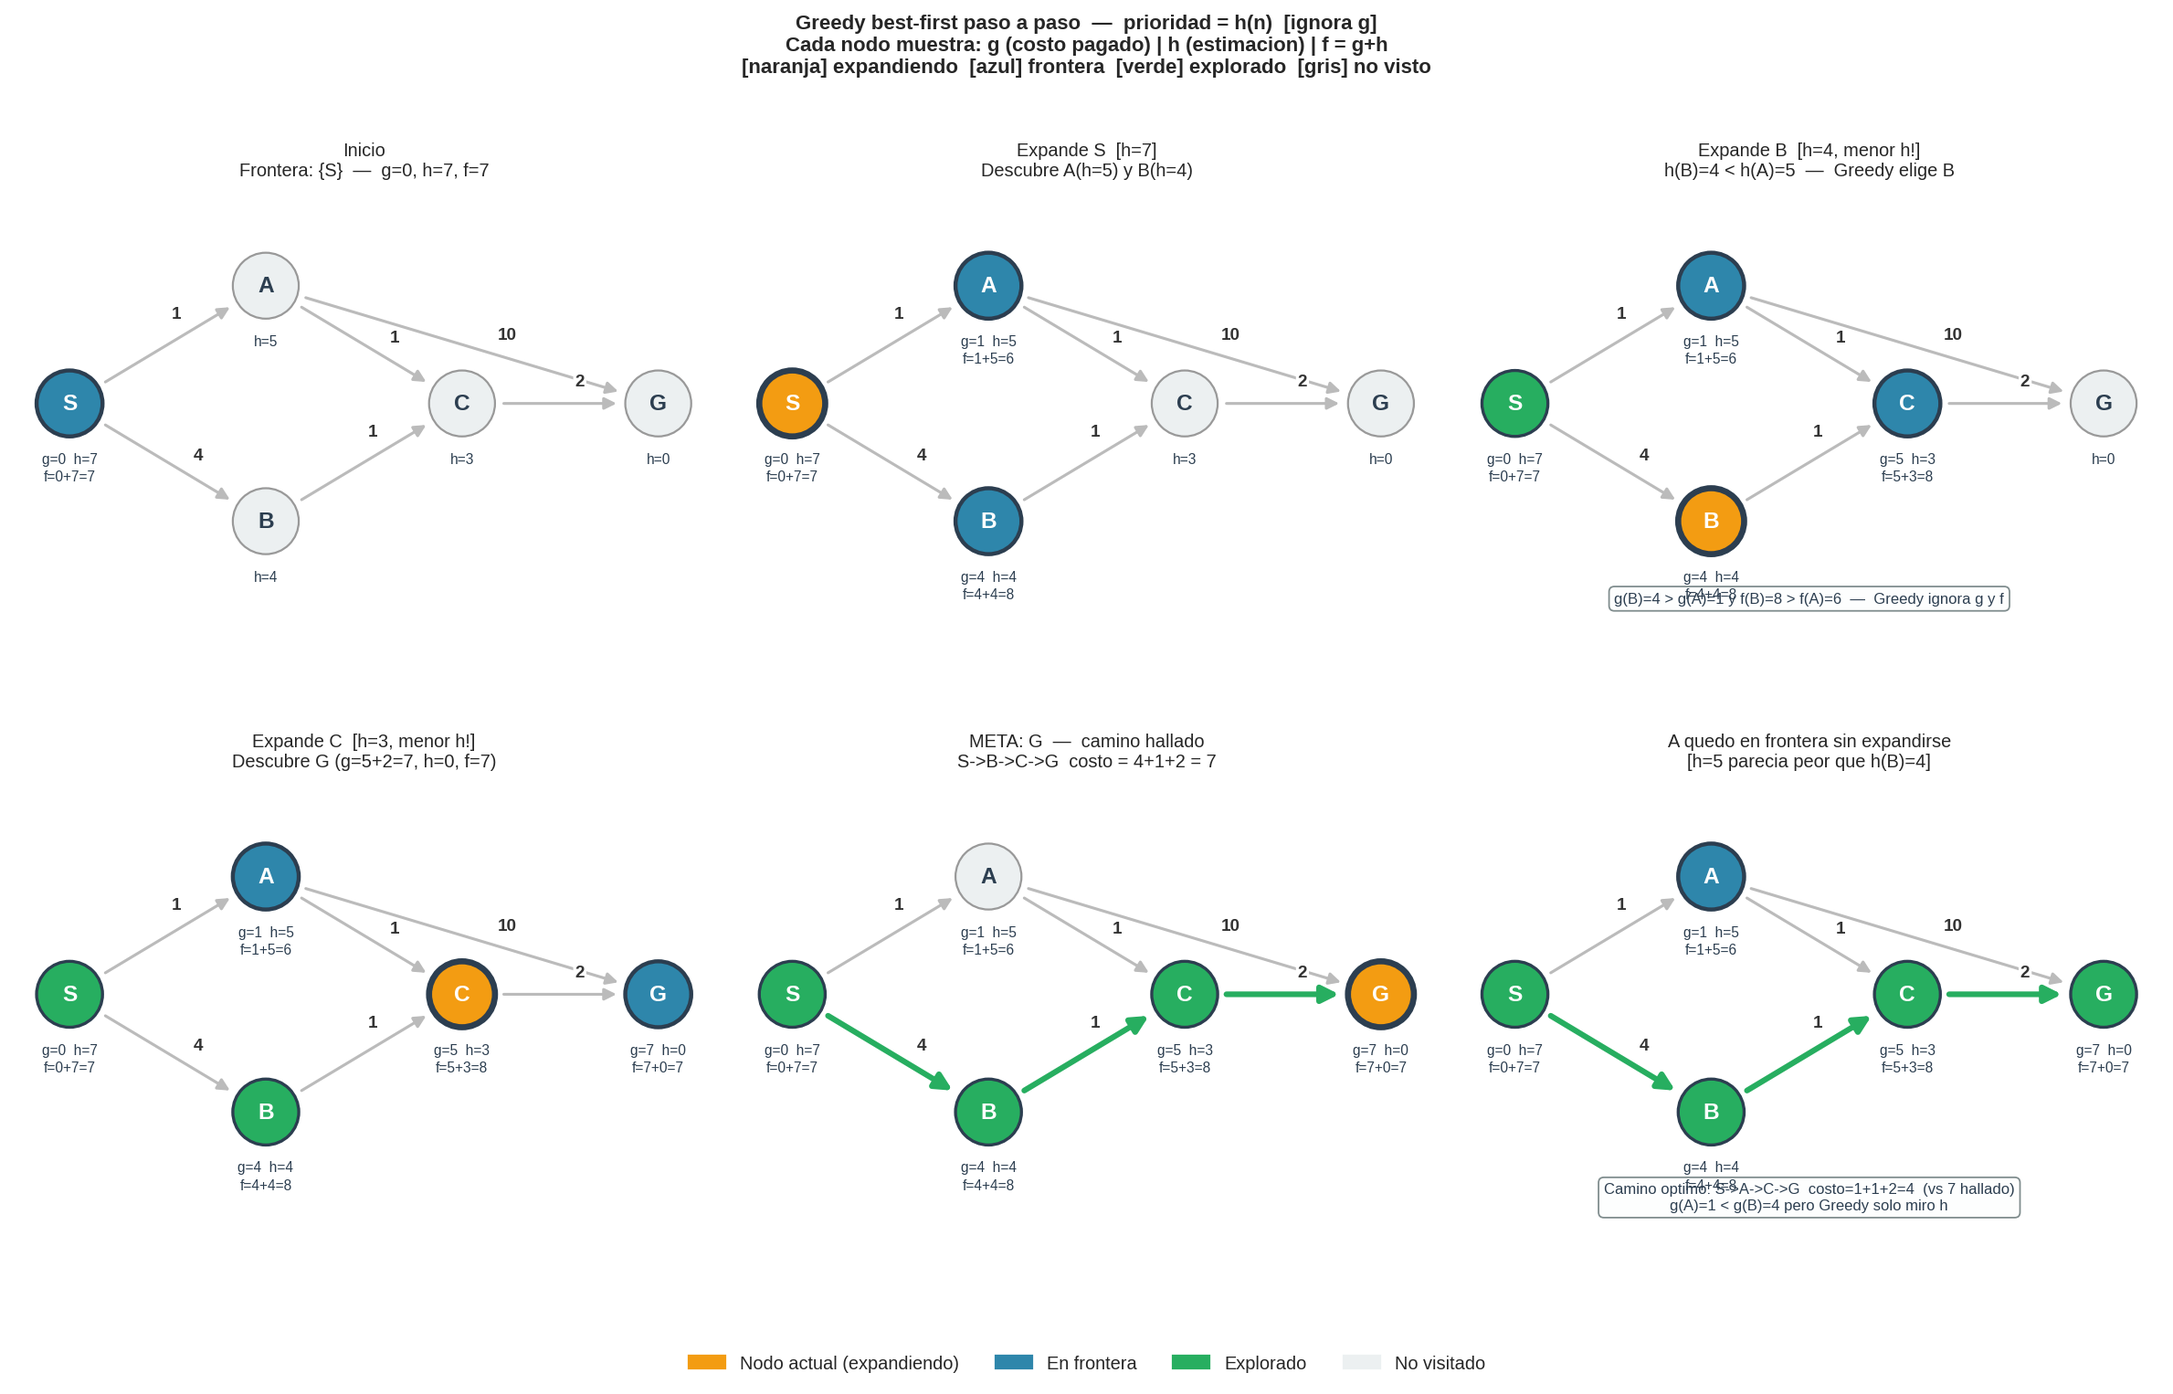
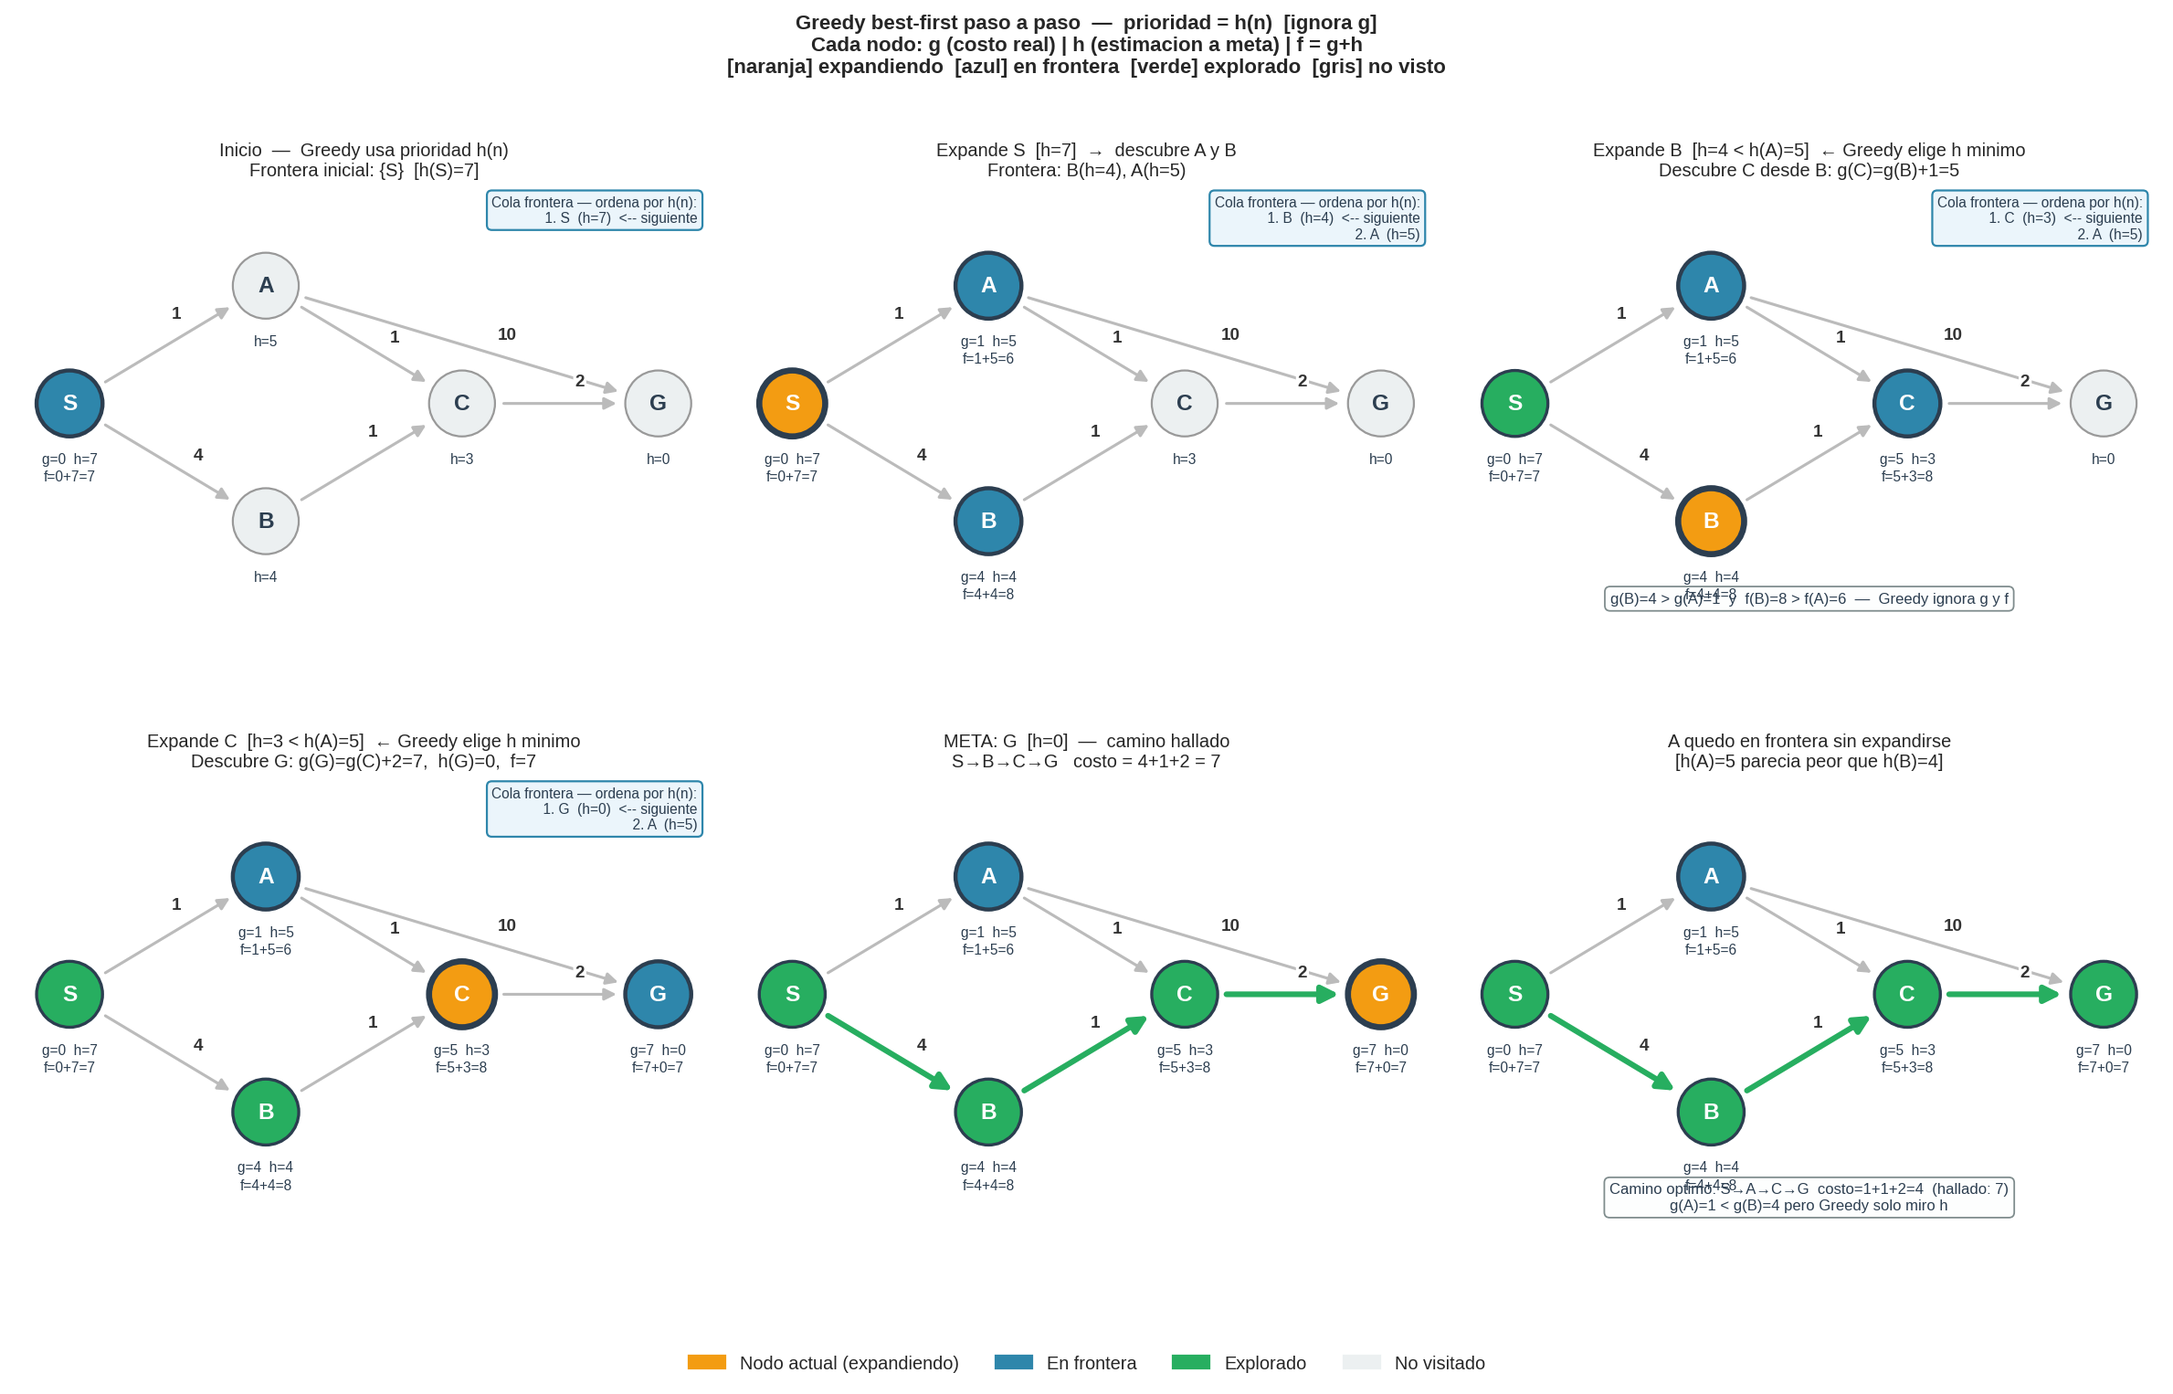
fixed graphs

diff --git a/clase/14_busqueda_informada/lab_informed_search.py b/clase/14_busqueda_informada/lab_informed_search.py
@@ -1125,13 +1125,19 @@ _TOY_H = {'S': 7, 'A': 5, 'B': 4, 'C': 3, 'G': 0}
 
 
 def _draw_toy_step(ax, current, frontier_nodes, explored_nodes,
-                   node_g, title, solution_path=None, note=None):
+                   node_g, title, solution_path=None, note=None,
+                   frontier_queue=None, priority_mode='f'):
     """Draw one step of a search algorithm on the shared toy graph.
 
     node_g: dict {node: g_value} for nodes with a known g cost.
             Nodes absent from this dict are shown with h(n) only.
     Labels always show g, h, AND f for every discovered node so all
     three algorithms can be compared directly on the same values.
+
+    frontier_queue: list of (priority_value, node_name) sorted ascending
+                    (lowest priority first = next to be expanded).
+                    Displayed as a priority queue box in upper-right corner.
+    priority_mode: 'h' | 'g' | 'f'  — which value drives selection.
     """
     pos = _TOY_POS
     R = 0.42
@@ -1194,6 +1200,22 @@ def _draw_toy_step(ax, current, frontier_nodes, explored_nodes,
             ax.text(x, y - 0.62, lbl, ha='center', va='top', fontsize=7.0,
                     color=COLORS["dark"], zorder=4, linespacing=1.35)
 
+    # --- Frontier priority queue box (upper-right corner) ---
+    # Shows the sorted frontier so students see WHY the next node is chosen.
+    if frontier_queue:
+        mode_labels = {'h': 'h(n)', 'g': 'g(n)', 'f': 'f(n)'}
+        mode_str = mode_labels.get(priority_mode, priority_mode)
+        lines = [f"Cola frontera — ordena por {mode_str}:"]
+        for i, (pri, node) in enumerate(frontier_queue):
+            arrow = "  <-- siguiente" if i == 0 else ""
+            lines.append(f"  {i + 1}. {node}  ({priority_mode}={pri}){arrow}")
+        fq_text = "\n".join(lines)
+        ax.text(8.0, 4.65, fq_text, ha='right', va='top', fontsize=7.0,
+                color=COLORS["dark"], zorder=5,
+                bbox=dict(fc='#EBF5FB', ec=COLORS["blue"],
+                          boxstyle='round,pad=0.35', lw=1.0))
+
+    # --- Note box (bottom center) ---
     if note:
         ax.text(3.75, -0.40, note, ha='center', va='top', fontsize=7.5,
                 color=COLORS["dark"],
@@ -1212,59 +1234,70 @@ def plot_greedy_step_by_step() -> None:
     Shows g, h, and f at every node — even though Greedy only uses h.
     The key visual: at step 2 Greedy picks B (h=4) over A (h=5),
     but g(B)=4 > g(A)=1 and f(B)=8 > f(A)=6.  Greedy ignores g.
+
+    Greedy path: S->B->C->G  cost=7  (suboptimal)
+    Optimal:     S->A->C->G  cost=4
+    A is discovered (g=1) but never expanded — Greedy chose B first.
     """
-    # g values along Greedy's chosen path:
-    #   Greedy discovers A and B from S (g via S→A=1, S→B=4)
-    #   Then picks B (h=4), discovers C from B (g via B→C = 5)
-    #   Then picks C (h=3), discovers G from C (g via B→C→G = 7)
-    #   A is discovered (g=1) but never expanded
+    # Each step: (current, frontier_set, explored_set, node_g,
+    #             title, solution_path, note, frontier_queue)
+    # frontier_queue: [(h_value, node), ...] sorted ascending = next to expand first
+    # BUG FIX: panel 5 — when G is popped as goal, A is still in frontier
     steps = [
-        # (current, frontier_set, explored_set, node_g, title, solution_path, note)
         (None,
          {'S'}, set(),
          {'S': 0},
-         "Inicio\nFrontera: {S}  —  g=0, h=7, f=7",
-         None, None),
+         "Inicio  —  Greedy usa prioridad h(n)\nFrontera inicial: {S}  [h(S)=7]",
+         None, None,
+         [(7, 'S')]),
 
         ('S',
          {'A', 'B'}, {'S'},
          {'S': 0, 'A': 1, 'B': 4},
-         "Expande S  [h=7]\nDescubre A(h=5) y B(h=4)",
-         None, None),
+         "Expande S  [h=7]  \u2192  descubre A y B\nFrontera: B(h=4), A(h=5)",
+         None, None,
+         [(4, 'B'), (5, 'A')]),
 
         ('B',
          {'A', 'C'}, {'S', 'B'},
          {'S': 0, 'A': 1, 'B': 4, 'C': 5},
-         "Expande B  [h=4, menor h!]\nh(B)=4 < h(A)=5  —  Greedy elige B",
+         "Expande B  [h=4 < h(A)=5]  \u2190 Greedy elige h minimo\n"
+         "Descubre C desde B: g(C)=g(B)+1=5",
          None,
-         "g(B)=4 > g(A)=1 y f(B)=8 > f(A)=6  —  Greedy ignora g y f"),
+         "g(B)=4 > g(A)=1  y  f(B)=8 > f(A)=6  \u2014  Greedy ignora g y f",
+         [(3, 'C'), (5, 'A')]),
 
         ('C',
          {'A', 'G'}, {'S', 'B', 'C'},
          {'S': 0, 'A': 1, 'B': 4, 'C': 5, 'G': 7},
-         "Expande C  [h=3, menor h!]\nDescubre G (g=5+2=7, h=0, f=7)",
-         None, None),
+         "Expande C  [h=3 < h(A)=5]  \u2190 Greedy elige h minimo\n"
+         "Descubre G: g(G)=g(C)+2=7,  h(G)=0,  f=7",
+         None, None,
+         [(0, 'G'), (5, 'A')]),
 
+        # FIX: A is still in the frontier when G is expanded as goal
         ('G',
-         set(), {'S', 'B', 'C'},
+         {'A'}, {'S', 'B', 'C'},
          {'S': 0, 'A': 1, 'B': 4, 'C': 5, 'G': 7},
-         "META: G  —  camino hallado\nS->B->C->G  costo = 4+1+2 = 7",
-         ['S', 'B', 'C', 'G'], None),
+         "META: G  [h=0]  \u2014  camino hallado\nS\u2192B\u2192C\u2192G   costo = 4+1+2 = 7",
+         ['S', 'B', 'C', 'G'], None,
+         None),
 
         (None,
          {'A'}, {'S', 'B', 'C', 'G'},
          {'S': 0, 'A': 1, 'B': 4, 'C': 5, 'G': 7},
-         "A quedo en frontera sin expandirse\n[h=5 parecia peor que h(B)=4]",
+         "A quedo en frontera sin expandirse\n[h(A)=5 parecia peor que h(B)=4]",
          ['S', 'B', 'C', 'G'],
-         "Camino optimo: S->A->C->G  costo=1+1+2=4  (vs 7 hallado)\n"
-         "g(A)=1 < g(B)=4 pero Greedy solo miro h"),
+         "Camino optimo: S\u2192A\u2192C\u2192G  costo=1+1+2=4  (hallado: 7)\n"
+         "g(A)=1 < g(B)=4 pero Greedy solo miro h",
+         None),
     ]
 
     fig, axes = plt.subplots(2, 3, figsize=(15, 9.5))
     fig.suptitle(
-        "Greedy best-first paso a paso  —  prioridad = h(n)  [ignora g]\n"
-        "Cada nodo muestra: g (costo pagado) | h (estimacion) | f = g+h\n"
-        "[naranja] expandiendo  [azul] frontera  [verde] explorado  [gris] no visto",
+        "Greedy best-first paso a paso  \u2014  prioridad = h(n)  [ignora g]\n"
+        "Cada nodo: g (costo real) | h (estimacion a meta) | f = g+h\n"
+        "[naranja] expandiendo  [azul] en frontera  [verde] explorado  [gris] no visto",
         fontsize=10, fontweight='bold')
     axes = axes.flatten()
 
@@ -1274,8 +1307,9 @@ def plot_greedy_step_by_step() -> None:
         mpatches.Patch(color=COLORS["green"], label="Explorado"),
         mpatches.Patch(color=COLORS["light"], label="No visitado"),
     ]
-    for ax, (cur, fr, ex, ng, ttl, sp, nt) in zip(axes, steps):
-        _draw_toy_step(ax, cur, fr, ex, ng, ttl, sp, nt)
+    for ax, (cur, fr, ex, ng, ttl, sp, nt, fq) in zip(axes, steps):
+        _draw_toy_step(ax, cur, fr, ex, ng, ttl, sp, nt,
+                       frontier_queue=fq, priority_mode='h')
 
     fig.legend(handles=legend_patches, loc='lower center', ncol=4,
                fontsize=9, framealpha=0.9, bbox_to_anchor=(0.5, -0.01))
@@ -1288,53 +1322,68 @@ def plot_dijkstra_step_by_step() -> None:
     Shows g, h, and f at every node — even though Dijkstra only uses g.
     The key visual: Dijkstra correctly expands A (g=1) before B (g=4),
     but also expands B, ignoring h values entirely.
+
+    Expansion order: S, A, C, B, G
+    Optimal path: S->A->C->G  cost=4
     """
+    # Each step: (current, frontier_set, explored_set, node_g,
+    #             title, solution_path, note, frontier_queue)
+    # frontier_queue: [(g_value, node), ...] sorted ascending
     steps = [
-        # (current, frontier_set, explored_set, node_g, title, solution_path, note)
         (None,
          {'S'}, set(),
          {'S': 0},
-         "Inicio\ng(S)=0  (h y f mostrados para comparar)",
-         None, None),
+         "Inicio  \u2014  Dijkstra usa prioridad g(n)\ng(S)=0  (h y f se muestran para comparar)",
+         None, None,
+         [(0, 'S')]),
 
         ('S',
          {'A', 'B'}, {'S'},
          {'S': 0, 'A': 1, 'B': 4},
-         "Expande S  [g=0]\nRelajacion: g[A]=1,  g[B]=4",
-         None, None),
+         "Expande S  [g=0]  \u2192  relajacion: g[A]=1,  g[B]=4\nFrontera: A(g=1), B(g=4)",
+         None, None,
+         [(1, 'A'), (4, 'B')]),
 
         ('A',
          {'B', 'C', 'G'}, {'S', 'A'},
          {'S': 0, 'A': 1, 'B': 4, 'C': 2, 'G': 11},
-         "Expande A  [g=1, menor g!]\nRelajacion: g[C]=2,  g[G]=11",
-         None, None),
+         "Expande A  [g=1 < g(B)=4]  \u2190 Dijkstra elige g minimo\n"
+         "Relajacion: g[C]=1+1=2,  g[G]=1+10=11",
+         None, None,
+         [(2, 'C'), (4, 'B'), (11, 'G')]),
 
         ('C',
          {'B', 'G'}, {'S', 'A', 'C'},
          {'S': 0, 'A': 1, 'B': 4, 'C': 2, 'G': 4},
-         "Expande C  [g=2]\nRelajacion: g[G]: 11 -> 4  !",
+         "Expande C  [g=2]  \u2192  relajacion: g[G]: 11\u21924  !\n"
+         "g(G) via S\u2192A\u2192C\u2192G = 1+1+2 = 4",
          None,
-         "g[G] se actualiza 11->4  (f[G]: 11->4)  via S->A->C->G"),
+         "g[G] se actualiza: 11 \u2192 4  (ruta mas barata encontrada)",
+         [(4, 'B'), (4, 'G')]),
 
         ('B',
          {'G'}, {'S', 'A', 'C', 'B'},
          {'S': 0, 'A': 1, 'B': 4, 'C': 2, 'G': 4},
-         "Expande B  [g=4]  —  Dijkstra NO usa h\nB->C: g=5 > g[C]=2, sin relajacion",
+         "Expande B  [g=4]  \u2014  Dijkstra NO usa h\n"
+         "B\u2192C: g=4+1=5 > g[C]=2, sin relajacion",
          None,
-         "h(B)=4 sugeria que B era prometedor — Dijkstra lo ignora y lo expande igual"),
+         "h(B)=4 sugeria que B era prometedor \u2014 Dijkstra lo ignora y lo expande igual",
+         [(4, 'G')]),
 
         ('G',
          set(), {'S', 'A', 'C', 'B'},
          {'S': 0, 'A': 1, 'B': 4, 'C': 2, 'G': 4},
-         "META: G  [g=4]  —  camino optimo\nS->A->C->G  costo = 1+1+2 = 4",
-         ['S', 'A', 'C', 'G'], None),
+         "META: G  [g=4]  \u2014  camino optimo garantizado\n"
+         "S\u2192A\u2192C\u2192G   costo = 1+1+2 = 4",
+         ['S', 'A', 'C', 'G'], None,
+         None),
     ]
 
     fig, axes = plt.subplots(2, 3, figsize=(15, 9.5))
     fig.suptitle(
-        "Dijkstra paso a paso  —  prioridad = g(n)  [ignora h]\n"
-        "Cada nodo muestra: g (costo pagado) | h (estimacion) | f = g+h\n"
-        "[naranja] expandiendo  [azul] frontera  [verde] explorado  [gris] no visto",
+        "Dijkstra paso a paso  \u2014  prioridad = g(n)  [ignora h]\n"
+        "Cada nodo: g (costo real desde S) | h (estimacion a meta) | f = g+h\n"
+        "[naranja] expandiendo  [azul] en frontera  [verde] explorado  [gris] no visto",
         fontsize=10, fontweight='bold')
     axes = axes.flatten()
 
@@ -1344,8 +1393,9 @@ def plot_dijkstra_step_by_step() -> None:
         mpatches.Patch(color=COLORS["green"], label="Explorado"),
         mpatches.Patch(color=COLORS["light"], label="No visitado"),
     ]
-    for ax, (cur, fr, ex, ng, ttl, sp, nt) in zip(axes, steps):
-        _draw_toy_step(ax, cur, fr, ex, ng, ttl, sp, nt)
+    for ax, (cur, fr, ex, ng, ttl, sp, nt, fq) in zip(axes, steps):
+        _draw_toy_step(ax, cur, fr, ex, ng, ttl, sp, nt,
+                       frontier_queue=fq, priority_mode='g')
 
     fig.legend(handles=legend_patches, loc='lower center', ncol=4,
                fontsize=9, framealpha=0.9, bbox_to_anchor=(0.5, -0.01))
@@ -1358,54 +1408,73 @@ def plot_astar_step_by_step() -> None:
     Shows g, h, and f at every node — A* uses f = g+h.
     Key comparison with Dijkstra: same g values, but f directs focus.
     B (f=8) is never expanded because f(B) > optimal cost.
+
+    Expansion order: S, A, C, G  (B is never expanded)
+    Optimal path: S->A->C->G  cost=4
     """
+    # Each step: (current, frontier_set, explored_set, node_g,
+    #             title, solution_path, note, frontier_queue)
+    # frontier_queue: [(f_value, node), ...] sorted ascending
+    # BUG FIX: panel 5 — when G is popped as goal, B is still in frontier
     steps = [
-        # (current, frontier_set, explored_set, node_g, title, solution_path, note)
         (None,
          {'S'}, set(),
          {'S': 0},
-         "Inicio\nf(S) = g(S)+h(S) = 0+7 = 7",
-         None, None),
+         "Inicio  \u2014  A* usa prioridad f(n) = g(n) + h(n)\n"
+         "f(S) = g(S)+h(S) = 0+7 = 7",
+         None, None,
+         [(7, 'S')]),
 
         ('S',
          {'A', 'B'}, {'S'},
          {'S': 0, 'A': 1, 'B': 4},
-         "Expande S  [f=7]\nA: f=1+5=6,  B: f=4+4=8",
-         None, None),
+         "Expande S  [f=7]  \u2192  descubre A y B\n"
+         "A: f=1+5=6,  B: f=4+4=8",
+         None, None,
+         [(6, 'A'), (8, 'B')]),
 
         ('A',
          {'B', 'C', 'G'}, {'S', 'A'},
          {'S': 0, 'A': 1, 'B': 4, 'C': 2, 'G': 11},
-         "Expande A  [f=6, menor f!]\nC: f=2+3=5,  G: f=11+0=11",
-         None, None),
+         "Expande A  [f=6 < f(B)=8]  \u2190 A* elige f minimo\n"
+         "C: f=2+3=5,  G: f=1+10+0=11",
+         None, None,
+         [(5, 'C'), (8, 'B'), (11, 'G')]),
 
         ('C',
          {'B', 'G'}, {'S', 'A', 'C'},
          {'S': 0, 'A': 1, 'B': 4, 'C': 2, 'G': 4},
-         "Expande C  [f=5]\nRelajacion: f[G]: 11 -> (2+2)+0 = 4  !",
+         "Expande C  [f=5]  \u2192  relajacion: f[G]: 11\u21924  !\n"
+         "g(G) via S\u2192A\u2192C\u2192G = 2+2 = 4,  f(G) = 4+0 = 4",
          None,
-         "f[G] se actualiza 11->4  (g[G]=4, h[G]=0)"),
+         "f[G] se actualiza: 11 \u2192 4  (g[G]=4, h[G]=0)",
+         [(4, 'G'), (8, 'B')]),
 
+        # FIX: B is still in the frontier when G is expanded as goal
         ('G',
-         set(), {'S', 'A', 'C'},
+         {'B'}, {'S', 'A', 'C'},
          {'S': 0, 'A': 1, 'B': 4, 'C': 2, 'G': 4},
-         "META: G  [f=4]  —  camino optimo\nS->A->C->G  costo = 1+1+2 = 4",
-         ['S', 'A', 'C', 'G'], None),
+         "META: G  [f=4]  \u2014  camino optimo garantizado\n"
+         "S\u2192A\u2192C\u2192G   costo = 1+1+2 = 4",
+         ['S', 'A', 'C', 'G'], None,
+         None),
 
         (None,
          {'B'}, {'S', 'A', 'C', 'G'},
          {'S': 0, 'A': 1, 'B': 4, 'C': 2, 'G': 4},
-         "B quedo en frontera sin expandirse\nf(B)=8 > costo optimo=4",
+         "B quedo en frontera sin expandirse\n"
+         "f(B)=4+4=8 > costo optimo=4",
          ['S', 'A', 'C', 'G'],
-         "A* evita B: f(B)=8 > 4  —  Dijkstra lo expandio porque ignora h\n"
-         "g(B)=4 igual que g(G)=4, pero h(B)=4 revela que B no puede mejorar"),
+         "A* evita B: f(B)=8 > 4  \u2014  Dijkstra lo expandio porque ignora h\n"
+         "g(B)=4 = g(G)=4, pero h(B)=4 revela que B no puede mejorar",
+         None),
     ]
 
     fig, axes = plt.subplots(2, 3, figsize=(15, 9.5))
     fig.suptitle(
-        "A* paso a paso  —  prioridad = f(n) = g(n) + h(n)\n"
-        "Cada nodo muestra: g (costo pagado) | h (estimacion) | f = g+h\n"
-        "[naranja] expandiendo  [azul] frontera  [verde] explorado  [gris] no visto",
+        "A* paso a paso  \u2014  prioridad = f(n) = g(n) + h(n)\n"
+        "Cada nodo: g (costo real desde S) | h (estimacion a meta) | f = g+h\n"
+        "[naranja] expandiendo  [azul] en frontera  [verde] explorado  [gris] no visto",
         fontsize=10, fontweight='bold')
     axes = axes.flatten()
 
@@ -1415,8 +1484,9 @@ def plot_astar_step_by_step() -> None:
         mpatches.Patch(color=COLORS["green"], label="Explorado"),
         mpatches.Patch(color=COLORS["light"], label="No visitado"),
     ]
-    for ax, (cur, fr, ex, ng, ttl, sp, nt) in zip(axes, steps):
-        _draw_toy_step(ax, cur, fr, ex, ng, ttl, sp, nt)
+    for ax, (cur, fr, ex, ng, ttl, sp, nt, fq) in zip(axes, steps):
+        _draw_toy_step(ax, cur, fr, ex, ng, ttl, sp, nt,
+                       frontier_queue=fq, priority_mode='f')
 
     fig.legend(handles=legend_patches, loc='lower center', ncol=4,
                fontsize=9, framealpha=0.9, bbox_to_anchor=(0.5, -0.01))
